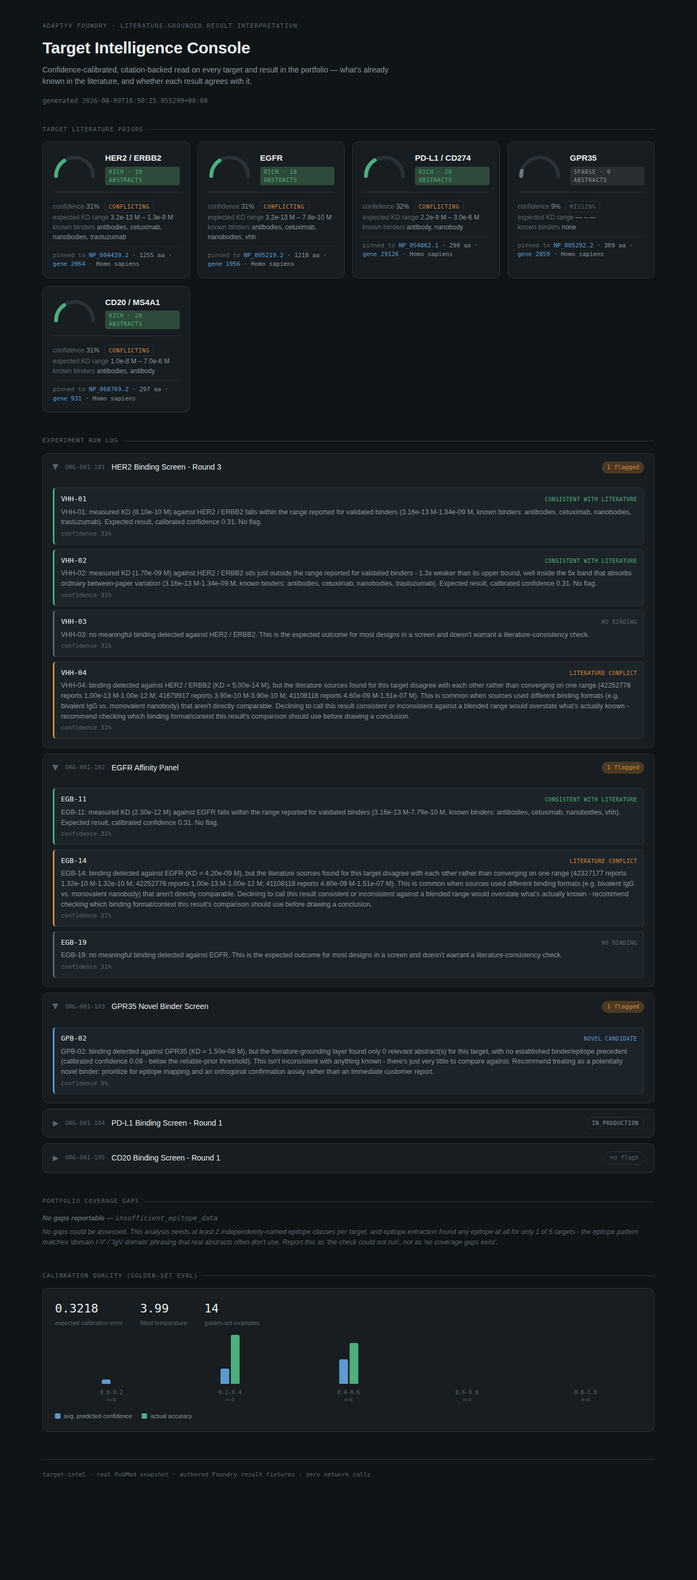
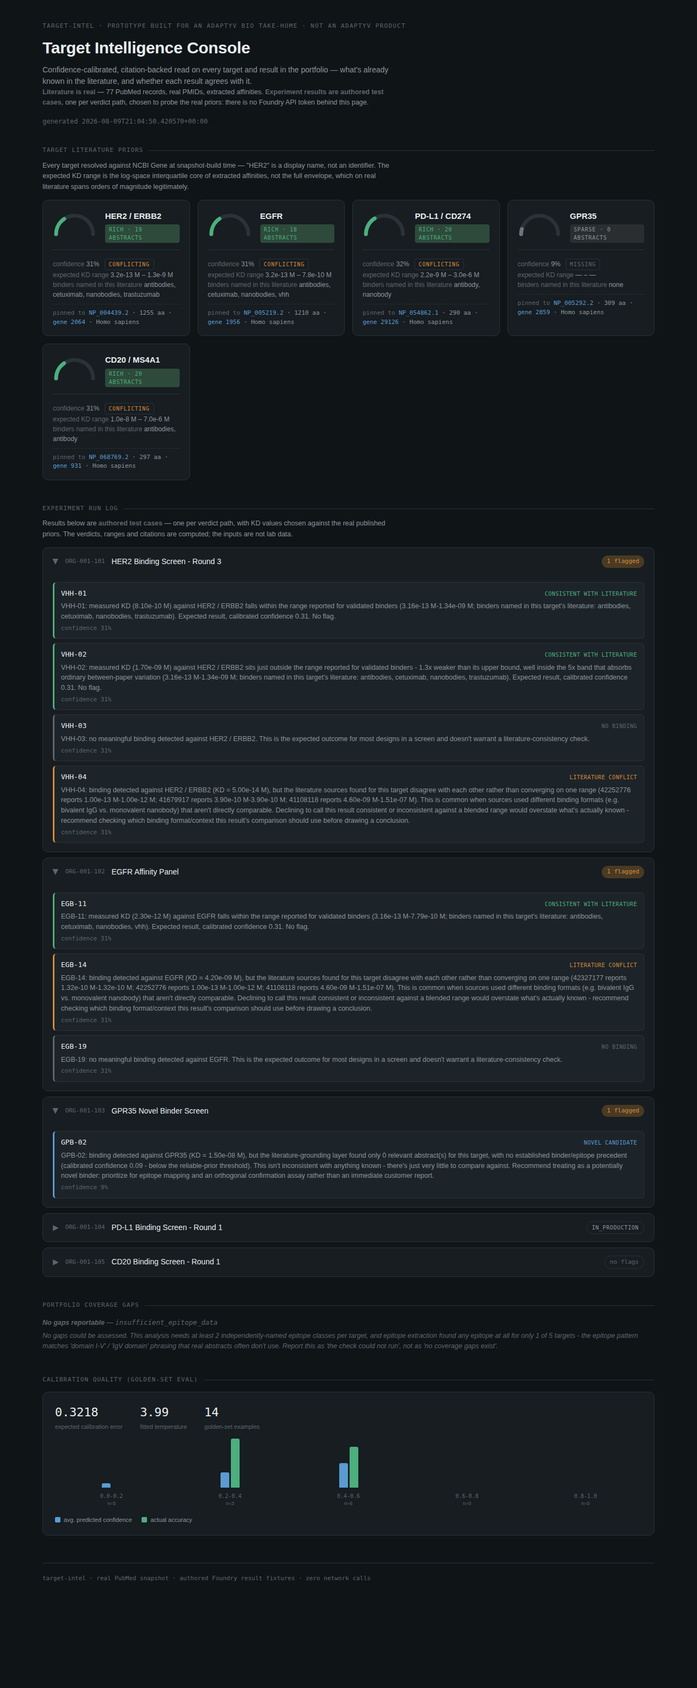
fix: say what extraction establishes, on every surface

diff --git a/docs/index.html b/docs/index.html
@@ -73,6 +73,16 @@
 
   section { margin-bottom: 44px; }
 
+  .provenance-note {
+    font-size: 12.5px; color: var(--text-muted); line-height: 1.55;
+    margin-top: 10px; max-width: 78ch;
+  }
+  .provenance-note strong { color: var(--text-dim); font-weight: 600; }
+  .section-note {
+    font-size: 12.5px; color: var(--text-muted); line-height: 1.55;
+    margin: -4px 0 14px; max-width: 92ch;
+  }
+  .section-note strong { color: var(--text-dim); font-weight: 600; }
   .section-label {
     font-family: var(--font-mono);
     font-size: 11px;
@@ -305,19 +315,31 @@
 <div class="wrap">
 
   <header class="top">
-    <div class="eyebrow">Adaptyv Foundry &middot; Literature-Grounded Result Interpretation</div>
+    <!-- The eyebrow used to read "Adaptyv Foundry - Literature-Grounded Result
+         Interpretation". This page is published at a personal GitHub Pages URL
+         and linked from the repo's About field, so it gets seen with no README
+         around it, and that wording read as official Adaptyv tooling. It isn't. -->
+    <div class="eyebrow">target-intel &middot; prototype built for an Adaptyv Bio take-home &middot; not an Adaptyv product</div>
     <h1>Target Intelligence Console</h1>
     <p>Confidence-calibrated, citation-backed read on every target and result in the portfolio — what's already known in the literature, and whether each result agrees with it.</p>
+    <p class="provenance-note"><strong>Literature is real</strong> — 77 PubMed records, real PMIDs, extracted affinities.
+       <strong>Experiment results are authored test cases</strong>, one per verdict path, chosen to probe the real priors: there is no Foundry API token behind this page.</p>
     <div class="meta" id="meta"></div>
   </header>
 
   <section>
     <div class="section-label">Target literature priors</div>
+    <p class="section-note">Every target resolved against NCBI Gene at snapshot-build time — "HER2" is a display
+       name, not an identifier. The expected KD range is the log-space interquartile core of extracted affinities,
+       not the full envelope, which on real literature spans orders of magnitude legitimately.</p>
     <div class="gauge-grid" id="gauge-grid"></div>
   </section>
 
   <section>
     <div class="section-label">Experiment run log</div>
+    <p class="section-note">Results below are <strong>authored test cases</strong> — one per verdict path, with KD values
+       chosen against the real published priors. The verdicts, ranges and citations are computed; the inputs are not
+       lab data.</p>
     <div id="exp-log"></div>
   </section>
 
@@ -340,7 +362,7 @@
 </div>
 
 <script>
-const DATA = {"generated_at": "2026-08-09T19:39:47.899269+00:00", "targets": [{"target_id": "comp-her2-human", "name": "HER2 / ERBB2", "uniprot_hint": "P04626", "ncbi": {"gene_id": "2064", "symbol": "ERBB2", "full_name": "erb-b2 receptor tyrosine kinase 2", "organism": "Homo sapiens", "taxon_id": "9606", "chromosome": "17", "map_location": "17q12", "aliases": ["CD340", "HER-2", "HER-2/neu", "HER2", "MLN 19", "MLN-19", "NEU", "NGL", "TKR1", "VSCN2", "c-ERB-2", "c-ERB2", "p185(erbB2)"], "refseq_protein": "NP_004439.2", "protein_name": "receptor tyrosine-protein kinase erbB-2 isoform a precursor", "protein_length": 1255, "gene_url": "https://www.ncbi.nlm.nih.gov/gene/2064", "protein_url": "https://www.ncbi.nlm.nih.gov/protein/NP_004439.2"}, "literature_density": "rich", "evidence_level": "conflicting", "calibrated_confidence": 0.3101, "known_binders": ["antibodies", "cetuximab", "nanobodies", "trastuzumab"], "known_epitopes": [], "expected_kd_low_m": 3.162277660168379e-13, "expected_kd_high_m": 1.3394028520202584e-09, "n_abstracts": 19}, {"target_id": "comp-egfr-human", "name": "EGFR", "uniprot_hint": "P00533", "ncbi": {"gene_id": "1956", "symbol": "EGFR", "full_name": "epidermal growth factor receptor", "organism": "Homo sapiens", "taxon_id": "9606", "chromosome": "7", "map_location": "7p11.2", "aliases": ["ERBB", "ERBB1", "ERRP", "HER1", "NISBD2", "NNCIS", "PIG61", "mENA"], "refseq_protein": "NP_005219.2", "protein_name": "epidermal growth factor receptor isoform a precursor", "protein_length": 1210, "gene_url": "https://www.ncbi.nlm.nih.gov/gene/1956", "protein_url": "https://www.ncbi.nlm.nih.gov/protein/NP_005219.2"}, "literature_density": "rich", "evidence_level": "conflicting", "calibrated_confidence": 0.3131, "known_binders": ["antibodies", "cetuximab", "nanobodies", "vhh"], "known_epitopes": [], "expected_kd_low_m": 3.162277660168379e-13, "expected_kd_high_m": 7.79230389551127e-10, "n_abstracts": 18}, {"target_id": "comp-pdl1-human", "name": "PD-L1 / CD274", "uniprot_hint": "Q9NZQ7", "ncbi": {"gene_id": "29126", "symbol": "CD274", "full_name": "CD274 molecule", "organism": "Homo sapiens", "taxon_id": "9606", "chromosome": "9", "map_location": "9p24.1", "aliases": ["ADMIO5", "B7-H", "B7H1", "PD-L1", "PDCD1L1", "PDCD1LG1", "PDL1", "hPD-L1"], "refseq_protein": "NP_054862.1", "protein_name": "programmed cell death 1 ligand 1 isoform a precursor", "protein_length": 290, "gene_url": "https://www.ncbi.nlm.nih.gov/gene/29126", "protein_url": "https://www.ncbi.nlm.nih.gov/protein/NP_054862.1"}, "literature_density": "rich", "evidence_level": "conflicting", "calibrated_confidence": 0.3235, "known_binders": ["antibody", "nanobody"], "known_epitopes": ["domain II"], "expected_kd_low_m": 2.221617670010125e-09, "expected_kd_high_m": 2.9643467225975746e-06, "n_abstracts": 20}, {"target_id": "comp-gpr35-human", "name": "GPR35", "uniprot_hint": "Q9HC97", "ncbi": {"gene_id": "2859", "symbol": "GPR35", "full_name": "G protein-coupled receptor 35", "organism": "Homo sapiens", "taxon_id": "9606", "chromosome": "2", "map_location": "2q37.3", "aliases": [], "refseq_protein": "NP_005292.2", "protein_name": "G protein-coupled receptor 35 isoform a", "protein_length": 309, "gene_url": "https://www.ncbi.nlm.nih.gov/gene/2859", "protein_url": "https://www.ncbi.nlm.nih.gov/protein/NP_005292.2"}, "literature_density": "sparse", "evidence_level": "missing", "calibrated_confidence": 0.0904, "known_binders": [], "known_epitopes": [], "expected_kd_low_m": null, "expected_kd_high_m": null, "n_abstracts": 0}, {"target_id": "comp-cd20-human", "name": "CD20 / MS4A1", "uniprot_hint": "P11836", "ncbi": {"gene_id": "931", "symbol": "MS4A1", "full_name": "membrane spanning 4-domains A1", "organism": "Homo sapiens", "taxon_id": "9606", "chromosome": "11", "map_location": "11q12.2", "aliases": ["B1", "Bp35", "CD20", "CVID5", "FMC7", "LEU-16", "S7"], "refseq_protein": "NP_068769.2", "protein_name": "B-lymphocyte antigen CD20", "protein_length": 297, "gene_url": "https://www.ncbi.nlm.nih.gov/gene/931", "protein_url": "https://www.ncbi.nlm.nih.gov/protein/NP_068769.2"}, "literature_density": "rich", "evidence_level": "conflicting", "calibrated_confidence": 0.3072, "known_binders": ["antibodies", "antibody"], "known_epitopes": [], "expected_kd_low_m": 1e-08, "expected_kd_high_m": 7.000000000000002e-06, "n_abstracts": 20}], "experiments": [{"experiment_id": "019d4a2b-3c5e-7890-a001-000000000001", "experiment_code": "ORG-001-101", "name": "HER2 Binding Screen - Round 3", "status": "done", "target_id": "comp-her2-human", "experiment_type": "affinity", "flagged_count": 1, "verdicts": [{"sequence_hint": "VHH-01", "label": "consistent_with_literature", "flag_for_review": false, "confidence": 0.3101, "rationale": "VHH-01: measured KD (8.10e-10 M) against HER2 / ERBB2 falls within the range reported for validated binders (3.16e-13 M-1.34e-09 M, known binders: antibodies, cetuximab, nanobodies, trastuzumab). Expected result, calibrated confidence 0.31. No flag."}, {"sequence_hint": "VHH-02", "label": "consistent_with_literature", "flag_for_review": false, "confidence": 0.3101, "rationale": "VHH-02: measured KD (1.70e-09 M) against HER2 / ERBB2 sits just outside the range reported for validated binders - 1.3x weaker than its upper bound, well inside the 5x band that absorbs ordinary between-paper variation (3.16e-13 M-1.34e-09 M, known binders: antibodies, cetuximab, nanobodies, trastuzumab). Expected result, calibrated confidence 0.31. No flag."}, {"sequence_hint": "VHH-03", "label": "no_binding", "flag_for_review": false, "confidence": 0.3101, "rationale": "VHH-03: no meaningful binding detected against HER2 / ERBB2. This is the expected outcome for most designs in a screen and doesn't warrant a literature-consistency check."}, {"sequence_hint": "VHH-04", "label": "literature_conflict", "flag_for_review": true, "confidence": 0.3101, "rationale": "VHH-04: binding detected against HER2 / ERBB2 (KD = 5.00e-14 M), but the literature sources found for this target disagree with each other rather than converging on one range (42252776 reports 1.00e-13 M-1.00e-12 M; 41679917 reports 3.90e-10 M-3.90e-10 M; 41108118 reports 4.60e-09 M-1.51e-07 M). This is common when sources used different binding formats (e.g. bivalent IgG vs. monovalent nanobody) that aren't directly comparable. Declining to call this result consistent or inconsistent against a blended range would overstate what's actually known - recommend checking which binding format/context this result's comparison should use before drawing a conclusion."}], "target_name": "HER2 / ERBB2"}, {"experiment_id": "019d4a2b-3c5e-7890-a002-000000000002", "experiment_code": "ORG-001-102", "name": "EGFR Affinity Panel", "status": "done", "target_id": "comp-egfr-human", "experiment_type": "affinity", "flagged_count": 1, "verdicts": [{"sequence_hint": "EGB-11", "label": "consistent_with_literature", "flag_for_review": false, "confidence": 0.3131, "rationale": "EGB-11: measured KD (2.30e-12 M) against EGFR falls within the range reported for validated binders (3.16e-13 M-7.79e-10 M, known binders: antibodies, cetuximab, nanobodies, vhh). Expected result, calibrated confidence 0.31. No flag."}, {"sequence_hint": "EGB-14", "label": "literature_conflict", "flag_for_review": true, "confidence": 0.3131, "rationale": "EGB-14: binding detected against EGFR (KD = 4.20e-09 M), but the literature sources found for this target disagree with each other rather than converging on one range (42327177 reports 1.32e-10 M-1.32e-10 M; 42252776 reports 1.00e-13 M-1.00e-12 M; 41108118 reports 4.60e-09 M-1.51e-07 M). This is common when sources used different binding formats (e.g. bivalent IgG vs. monovalent nanobody) that aren't directly comparable. Declining to call this result consistent or inconsistent against a blended range would overstate what's actually known - recommend checking which binding format/context this result's comparison should use before drawing a conclusion."}, {"sequence_hint": "EGB-19", "label": "no_binding", "flag_for_review": false, "confidence": 0.3131, "rationale": "EGB-19: no meaningful binding detected against EGFR. This is the expected outcome for most designs in a screen and doesn't warrant a literature-consistency check."}], "target_name": "EGFR"}, {"experiment_id": "019d4a2b-3c5e-7890-a003-000000000003", "experiment_code": "ORG-001-103", "name": "GPR35 Novel Binder Screen", "status": "done", "target_id": "comp-gpr35-human", "experiment_type": "screening", "flagged_count": 1, "verdicts": [{"sequence_hint": "GPB-02", "label": "novel_candidate", "flag_for_review": true, "confidence": 0.0904, "rationale": "GPB-02: binding detected against GPR35 (KD = 1.50e-08 M), but the literature-grounding layer found only 0 relevant abstract(s) for this target, with no established binder/epitope precedent (calibrated confidence 0.09 - below the reliable-prior threshold). This isn't inconsistent with anything known - there's just very little to compare against. Recommend treating as a potentially novel binder: prioritize for epitope mapping and an orthogonal confirmation assay rather than an immediate customer report."}], "target_name": "GPR35"}, {"experiment_id": "019d4a2b-3c5e-7890-a004-000000000004", "experiment_code": "ORG-001-104", "name": "PD-L1 Binding Screen - Round 1", "status": "in_production", "target_id": "comp-pdl1-human", "experiment_type": "screening", "flagged_count": null, "verdicts": []}, {"experiment_id": "019d4a2b-3c5e-7890-a005-000000000005", "experiment_code": "ORG-001-105", "name": "CD20 Binding Screen - Round 1", "status": "done", "target_id": "comp-cd20-human", "experiment_type": "affinity", "flagged_count": 0, "verdicts": [{"sequence_hint": "CDB-01", "label": "consistent_with_literature", "flag_for_review": false, "confidence": 0.3072, "rationale": "CDB-01: measured KD (2.00e-09 M) against CD20 / MS4A1 sits just outside the range reported for validated binders - 5.0x tighter than its lower bound, well inside the 5x band that absorbs ordinary between-paper variation (1.00e-08 M-7.00e-06 M, known binders: antibodies, antibody). Expected result, calibrated confidence 0.31. No flag."}], "target_name": "CD20 / MS4A1"}], "coverage_notes": [], "coverage_status": "insufficient_epitope_data", "coverage_note": "No gaps could be assessed. This analysis needs at least 2 independently-named epitope classes per target, and epitope extraction found any epitope at all for only 1 of 5 targets - the epitope pattern matches 'domain I-V' / 'IgV domain' phrasing that real abstracts often don't use. Report this as 'the check could not run', not as 'no coverage gaps exist'.", "calibration": {"temperature": 3.99, "ece": 0.3218, "n_examples": 14, "bin_report": [{"range": "0.0-0.2", "n": 5, "avg_conf": 0.09, "accuracy": 0.0}, {"range": "0.2-0.4", "n": 3, "avg_conf": 0.316, "accuracy": 1.0}, {"range": "0.4-0.6", "n": 6, "avg_conf": 0.5, "accuracy": 0.833}, {"range": "0.6-0.8", "n": 0, "avg_conf": null, "accuracy": null}, {"range": "0.8-1.0", "n": 0, "avg_conf": null, "accuracy": null}]}};
+const DATA = {"generated_at": "2026-08-09T21:04:49.153015+00:00", "targets": [{"target_id": "comp-her2-human", "name": "HER2 / ERBB2", "uniprot_hint": "P04626", "ncbi": {"gene_id": "2064", "symbol": "ERBB2", "full_name": "erb-b2 receptor tyrosine kinase 2", "organism": "Homo sapiens", "taxon_id": "9606", "chromosome": "17", "map_location": "17q12", "aliases": ["CD340", "HER-2", "HER-2/neu", "HER2", "MLN 19", "MLN-19", "NEU", "NGL", "TKR1", "VSCN2", "c-ERB-2", "c-ERB2", "p185(erbB2)"], "refseq_protein": "NP_004439.2", "protein_name": "receptor tyrosine-protein kinase erbB-2 isoform a precursor", "protein_length": 1255, "gene_url": "https://www.ncbi.nlm.nih.gov/gene/2064", "protein_url": "https://www.ncbi.nlm.nih.gov/protein/NP_004439.2"}, "literature_density": "rich", "evidence_level": "conflicting", "calibrated_confidence": 0.3101, "known_binders": ["antibodies", "cetuximab", "nanobodies", "trastuzumab"], "known_epitopes": [], "expected_kd_low_m": 3.162277660168379e-13, "expected_kd_high_m": 1.3394028520202584e-09, "n_abstracts": 19}, {"target_id": "comp-egfr-human", "name": "EGFR", "uniprot_hint": "P00533", "ncbi": {"gene_id": "1956", "symbol": "EGFR", "full_name": "epidermal growth factor receptor", "organism": "Homo sapiens", "taxon_id": "9606", "chromosome": "7", "map_location": "7p11.2", "aliases": ["ERBB", "ERBB1", "ERRP", "HER1", "NISBD2", "NNCIS", "PIG61", "mENA"], "refseq_protein": "NP_005219.2", "protein_name": "epidermal growth factor receptor isoform a precursor", "protein_length": 1210, "gene_url": "https://www.ncbi.nlm.nih.gov/gene/1956", "protein_url": "https://www.ncbi.nlm.nih.gov/protein/NP_005219.2"}, "literature_density": "rich", "evidence_level": "conflicting", "calibrated_confidence": 0.3131, "known_binders": ["antibodies", "cetuximab", "nanobodies", "vhh"], "known_epitopes": [], "expected_kd_low_m": 3.162277660168379e-13, "expected_kd_high_m": 7.79230389551127e-10, "n_abstracts": 18}, {"target_id": "comp-pdl1-human", "name": "PD-L1 / CD274", "uniprot_hint": "Q9NZQ7", "ncbi": {"gene_id": "29126", "symbol": "CD274", "full_name": "CD274 molecule", "organism": "Homo sapiens", "taxon_id": "9606", "chromosome": "9", "map_location": "9p24.1", "aliases": ["ADMIO5", "B7-H", "B7H1", "PD-L1", "PDCD1L1", "PDCD1LG1", "PDL1", "hPD-L1"], "refseq_protein": "NP_054862.1", "protein_name": "programmed cell death 1 ligand 1 isoform a precursor", "protein_length": 290, "gene_url": "https://www.ncbi.nlm.nih.gov/gene/29126", "protein_url": "https://www.ncbi.nlm.nih.gov/protein/NP_054862.1"}, "literature_density": "rich", "evidence_level": "conflicting", "calibrated_confidence": 0.3235, "known_binders": ["antibody", "nanobody"], "known_epitopes": ["domain II"], "expected_kd_low_m": 2.221617670010125e-09, "expected_kd_high_m": 2.9643467225975746e-06, "n_abstracts": 20}, {"target_id": "comp-gpr35-human", "name": "GPR35", "uniprot_hint": "Q9HC97", "ncbi": {"gene_id": "2859", "symbol": "GPR35", "full_name": "G protein-coupled receptor 35", "organism": "Homo sapiens", "taxon_id": "9606", "chromosome": "2", "map_location": "2q37.3", "aliases": [], "refseq_protein": "NP_005292.2", "protein_name": "G protein-coupled receptor 35 isoform a", "protein_length": 309, "gene_url": "https://www.ncbi.nlm.nih.gov/gene/2859", "protein_url": "https://www.ncbi.nlm.nih.gov/protein/NP_005292.2"}, "literature_density": "sparse", "evidence_level": "missing", "calibrated_confidence": 0.0904, "known_binders": [], "known_epitopes": [], "expected_kd_low_m": null, "expected_kd_high_m": null, "n_abstracts": 0}, {"target_id": "comp-cd20-human", "name": "CD20 / MS4A1", "uniprot_hint": "P11836", "ncbi": {"gene_id": "931", "symbol": "MS4A1", "full_name": "membrane spanning 4-domains A1", "organism": "Homo sapiens", "taxon_id": "9606", "chromosome": "11", "map_location": "11q12.2", "aliases": ["B1", "Bp35", "CD20", "CVID5", "FMC7", "LEU-16", "S7"], "refseq_protein": "NP_068769.2", "protein_name": "B-lymphocyte antigen CD20", "protein_length": 297, "gene_url": "https://www.ncbi.nlm.nih.gov/gene/931", "protein_url": "https://www.ncbi.nlm.nih.gov/protein/NP_068769.2"}, "literature_density": "rich", "evidence_level": "conflicting", "calibrated_confidence": 0.3072, "known_binders": ["antibodies", "antibody"], "known_epitopes": [], "expected_kd_low_m": 1e-08, "expected_kd_high_m": 7.000000000000002e-06, "n_abstracts": 20}], "experiments": [{"experiment_id": "019d4a2b-3c5e-7890-a001-000000000001", "experiment_code": "ORG-001-101", "name": "HER2 Binding Screen - Round 3", "status": "done", "target_id": "comp-her2-human", "experiment_type": "affinity", "flagged_count": 1, "verdicts": [{"sequence_hint": "VHH-01", "label": "consistent_with_literature", "flag_for_review": false, "confidence": 0.3101, "rationale": "VHH-01: measured KD (8.10e-10 M) against HER2 / ERBB2 falls within the range reported for validated binders (3.16e-13 M-1.34e-09 M; binders named in this target's literature: antibodies, cetuximab, nanobodies, trastuzumab). Expected result, calibrated confidence 0.31. No flag."}, {"sequence_hint": "VHH-02", "label": "consistent_with_literature", "flag_for_review": false, "confidence": 0.3101, "rationale": "VHH-02: measured KD (1.70e-09 M) against HER2 / ERBB2 sits just outside the range reported for validated binders - 1.3x weaker than its upper bound, well inside the 5x band that absorbs ordinary between-paper variation (3.16e-13 M-1.34e-09 M; binders named in this target's literature: antibodies, cetuximab, nanobodies, trastuzumab). Expected result, calibrated confidence 0.31. No flag."}, {"sequence_hint": "VHH-03", "label": "no_binding", "flag_for_review": false, "confidence": 0.3101, "rationale": "VHH-03: no meaningful binding detected against HER2 / ERBB2. This is the expected outcome for most designs in a screen and doesn't warrant a literature-consistency check."}, {"sequence_hint": "VHH-04", "label": "literature_conflict", "flag_for_review": true, "confidence": 0.3101, "rationale": "VHH-04: binding detected against HER2 / ERBB2 (KD = 5.00e-14 M), but the literature sources found for this target disagree with each other rather than converging on one range (42252776 reports 1.00e-13 M-1.00e-12 M; 41679917 reports 3.90e-10 M-3.90e-10 M; 41108118 reports 4.60e-09 M-1.51e-07 M). This is common when sources used different binding formats (e.g. bivalent IgG vs. monovalent nanobody) that aren't directly comparable. Declining to call this result consistent or inconsistent against a blended range would overstate what's actually known - recommend checking which binding format/context this result's comparison should use before drawing a conclusion."}], "target_name": "HER2 / ERBB2"}, {"experiment_id": "019d4a2b-3c5e-7890-a002-000000000002", "experiment_code": "ORG-001-102", "name": "EGFR Affinity Panel", "status": "done", "target_id": "comp-egfr-human", "experiment_type": "affinity", "flagged_count": 1, "verdicts": [{"sequence_hint": "EGB-11", "label": "consistent_with_literature", "flag_for_review": false, "confidence": 0.3131, "rationale": "EGB-11: measured KD (2.30e-12 M) against EGFR falls within the range reported for validated binders (3.16e-13 M-7.79e-10 M; binders named in this target's literature: antibodies, cetuximab, nanobodies, vhh). Expected result, calibrated confidence 0.31. No flag."}, {"sequence_hint": "EGB-14", "label": "literature_conflict", "flag_for_review": true, "confidence": 0.3131, "rationale": "EGB-14: binding detected against EGFR (KD = 4.20e-09 M), but the literature sources found for this target disagree with each other rather than converging on one range (42327177 reports 1.32e-10 M-1.32e-10 M; 42252776 reports 1.00e-13 M-1.00e-12 M; 41108118 reports 4.60e-09 M-1.51e-07 M). This is common when sources used different binding formats (e.g. bivalent IgG vs. monovalent nanobody) that aren't directly comparable. Declining to call this result consistent or inconsistent against a blended range would overstate what's actually known - recommend checking which binding format/context this result's comparison should use before drawing a conclusion."}, {"sequence_hint": "EGB-19", "label": "no_binding", "flag_for_review": false, "confidence": 0.3131, "rationale": "EGB-19: no meaningful binding detected against EGFR. This is the expected outcome for most designs in a screen and doesn't warrant a literature-consistency check."}], "target_name": "EGFR"}, {"experiment_id": "019d4a2b-3c5e-7890-a003-000000000003", "experiment_code": "ORG-001-103", "name": "GPR35 Novel Binder Screen", "status": "done", "target_id": "comp-gpr35-human", "experiment_type": "screening", "flagged_count": 1, "verdicts": [{"sequence_hint": "GPB-02", "label": "novel_candidate", "flag_for_review": true, "confidence": 0.0904, "rationale": "GPB-02: binding detected against GPR35 (KD = 1.50e-08 M), but the literature-grounding layer found only 0 relevant abstract(s) for this target, with no established binder/epitope precedent (calibrated confidence 0.09 - below the reliable-prior threshold). This isn't inconsistent with anything known - there's just very little to compare against. Recommend treating as a potentially novel binder: prioritize for epitope mapping and an orthogonal confirmation assay rather than an immediate customer report."}], "target_name": "GPR35"}, {"experiment_id": "019d4a2b-3c5e-7890-a004-000000000004", "experiment_code": "ORG-001-104", "name": "PD-L1 Binding Screen - Round 1", "status": "in_production", "target_id": "comp-pdl1-human", "experiment_type": "screening", "flagged_count": null, "verdicts": []}, {"experiment_id": "019d4a2b-3c5e-7890-a005-000000000005", "experiment_code": "ORG-001-105", "name": "CD20 Binding Screen - Round 1", "status": "done", "target_id": "comp-cd20-human", "experiment_type": "affinity", "flagged_count": 0, "verdicts": [{"sequence_hint": "CDB-01", "label": "consistent_with_literature", "flag_for_review": false, "confidence": 0.3072, "rationale": "CDB-01: measured KD (2.00e-09 M) against CD20 / MS4A1 sits just outside the range reported for validated binders - 5.0x tighter than its lower bound, well inside the 5x band that absorbs ordinary between-paper variation (1.00e-08 M-7.00e-06 M; binders named in this target's literature: antibodies, antibody). Expected result, calibrated confidence 0.31. No flag."}], "target_name": "CD20 / MS4A1"}], "coverage_notes": [], "coverage_status": "insufficient_epitope_data", "coverage_note": "No gaps could be assessed. This analysis needs at least 2 independently-named epitope classes per target, and epitope extraction found any epitope at all for only 1 of 5 targets - the epitope pattern matches 'domain I-V' / 'IgV domain' phrasing that real abstracts often don't use. Report this as 'the check could not run', not as 'no coverage gaps exist'.", "calibration": {"temperature": 3.99, "ece": 0.3218, "n_examples": 14, "bin_report": [{"range": "0.0-0.2", "n": 5, "avg_conf": 0.09, "accuracy": 0.0}, {"range": "0.2-0.4", "n": 3, "avg_conf": 0.316, "accuracy": 1.0}, {"range": "0.4-0.6", "n": 6, "avg_conf": 0.5, "accuracy": 0.833}, {"range": "0.6-0.8", "n": 0, "avg_conf": null, "accuracy": null}, {"range": "0.8-1.0", "n": 0, "avg_conf": null, "accuracy": null}]}};
 
 function fmtM(x) {
   if (x === null || x === undefined) return '—';
@@ -387,7 +409,12 @@ function renderGauges() {
       <div class="card-detail">
         <div><span class="k">confidence</span> ${(t.calibrated_confidence*100).toFixed(0)}% <span class="evidence-tag evidence-${t.evidence_level}">${t.evidence_level}</span></div>
         <div><span class="k">expected KD range</span> ${fmtM(t.expected_kd_low_m)} – ${fmtM(t.expected_kd_high_m)}</div>
-        <div><span class="k">known binders</span> ${t.known_binders.length ? t.known_binders.join(', ') : 'none'}</div>
+        <!-- "known binders" overstated what extraction establishes. A HER2 query
+             genuinely returns papers discussing cetuximab, which is anti-EGFR -
+             the pipeline links a name to the abstract it appeared in, not to the
+             protein that abstract was about. A domain reader spots that in
+             seconds, so the label says what was actually measured. -->
+        <div><span class="k">binders named in this literature</span> ${t.known_binders.length ? t.known_binders.join(', ') : 'none'}</div>
         ${t.ncbi ? `<div class="ncbi"><span class="k">pinned to</span>
           <a href="${t.ncbi.protein_url}" target="_blank" rel="noopener">${t.ncbi.refseq_protein}</a>
           · ${t.ncbi.protein_length} aa ·

diff --git a/src/target_intel/dashboard/template.html b/src/target_intel/dashboard/template.html
@@ -73,6 +73,16 @@
 
   section { margin-bottom: 44px; }
 
+  .provenance-note {
+    font-size: 12.5px; color: var(--text-muted); line-height: 1.55;
+    margin-top: 10px; max-width: 78ch;
+  }
+  .provenance-note strong { color: var(--text-dim); font-weight: 600; }
+  .section-note {
+    font-size: 12.5px; color: var(--text-muted); line-height: 1.55;
+    margin: -4px 0 14px; max-width: 92ch;
+  }
+  .section-note strong { color: var(--text-dim); font-weight: 600; }
   .section-label {
     font-family: var(--font-mono);
     font-size: 11px;
@@ -305,19 +315,31 @@
 <div class="wrap">
 
   <header class="top">
-    <div class="eyebrow">Adaptyv Foundry &middot; Literature-Grounded Result Interpretation</div>
+    <!-- The eyebrow used to read "Adaptyv Foundry - Literature-Grounded Result
+         Interpretation". This page is published at a personal GitHub Pages URL
+         and linked from the repo's About field, so it gets seen with no README
+         around it, and that wording read as official Adaptyv tooling. It isn't. -->
+    <div class="eyebrow">target-intel &middot; prototype built for an Adaptyv Bio take-home &middot; not an Adaptyv product</div>
     <h1>Target Intelligence Console</h1>
     <p>Confidence-calibrated, citation-backed read on every target and result in the portfolio — what's already known in the literature, and whether each result agrees with it.</p>
+    <p class="provenance-note"><strong>Literature is real</strong> — 77 PubMed records, real PMIDs, extracted affinities.
+       <strong>Experiment results are authored test cases</strong>, one per verdict path, chosen to probe the real priors: there is no Foundry API token behind this page.</p>
     <div class="meta" id="meta"></div>
   </header>
 
   <section>
     <div class="section-label">Target literature priors</div>
+    <p class="section-note">Every target resolved against NCBI Gene at snapshot-build time — "HER2" is a display
+       name, not an identifier. The expected KD range is the log-space interquartile core of extracted affinities,
+       not the full envelope, which on real literature spans orders of magnitude legitimately.</p>
     <div class="gauge-grid" id="gauge-grid"></div>
   </section>
 
   <section>
     <div class="section-label">Experiment run log</div>
+    <p class="section-note">Results below are <strong>authored test cases</strong> — one per verdict path, with KD values
+       chosen against the real published priors. The verdicts, ranges and citations are computed; the inputs are not
+       lab data.</p>
     <div id="exp-log"></div>
   </section>
 
@@ -387,7 +409,12 @@ function renderGauges() {
       <div class="card-detail">
         <div><span class="k">confidence</span> ${(t.calibrated_confidence*100).toFixed(0)}% <span class="evidence-tag evidence-${t.evidence_level}">${t.evidence_level}</span></div>
         <div><span class="k">expected KD range</span> ${fmtM(t.expected_kd_low_m)} – ${fmtM(t.expected_kd_high_m)}</div>
-        <div><span class="k">known binders</span> ${t.known_binders.length ? t.known_binders.join(', ') : 'none'}</div>
+        <!-- "known binders" overstated what extraction establishes. A HER2 query
+             genuinely returns papers discussing cetuximab, which is anti-EGFR -
+             the pipeline links a name to the abstract it appeared in, not to the
+             protein that abstract was about. A domain reader spots that in
+             seconds, so the label says what was actually measured. -->
+        <div><span class="k">binders named in this literature</span> ${t.known_binders.length ? t.known_binders.join(', ') : 'none'}</div>
         ${t.ncbi ? `<div class="ncbi"><span class="k">pinned to</span>
           <a href="${t.ncbi.protein_url}" target="_blank" rel="noopener">${t.ncbi.refseq_protein}</a>
           · ${t.ncbi.protein_length} aa ·

diff --git a/src/target_intel/interpretation/verdict.py b/src/target_intel/interpretation/verdict.py
@@ -166,7 +166,7 @@ def _interpret(result: ResultRecord, prior: ExpectedAffinityPrior) -> Verdict:
             confidence=prior.calibrated_confidence,
             rationale=(
                 f"{result.sequence_name}: binding detected against {result.target_name} "
-                f"(KD = {_fmt_m(kd)}). The literature layer found known binders/epitopes "
+                f"(KD = {_fmt_m(kd)}). The literature layer found binders/epitopes named "
                 f"({', '.join(prior.known_binders) or 'none named'}) but no extractable numeric "
                 "affinity range to compare against, so no quantitative flag applies here."
             ),
@@ -253,7 +253,13 @@ def _interpret(result: ResultRecord, prior: ExpectedAffinityPrior) -> Verdict:
         confidence=prior.calibrated_confidence,
         rationale=(
             f"{result.sequence_name}: measured KD ({_fmt_m(kd)}) against {result.target_name} "
-            f"{placement}, known binders: {', '.join(prior.known_binders) or 'n/a'}). "
+            # "known binders" claimed more than extraction establishes: names are
+            # linked to the abstract they appeared in, not to the protein that
+            # abstract was about, so a HER2 query legitimately surfaces cetuximab
+            # (anti-EGFR). Saying where the name came from costs three words and
+            # stops a domain reader treating a documented limitation as a bug.
+            f"{placement}; binders named in this target's literature: "
+            f"{', '.join(prior.known_binders) or 'none'}). "
             f"Expected result, calibrated confidence {prior.calibrated_confidence:.2f}. No flag."
         ),
         citations=citations,
